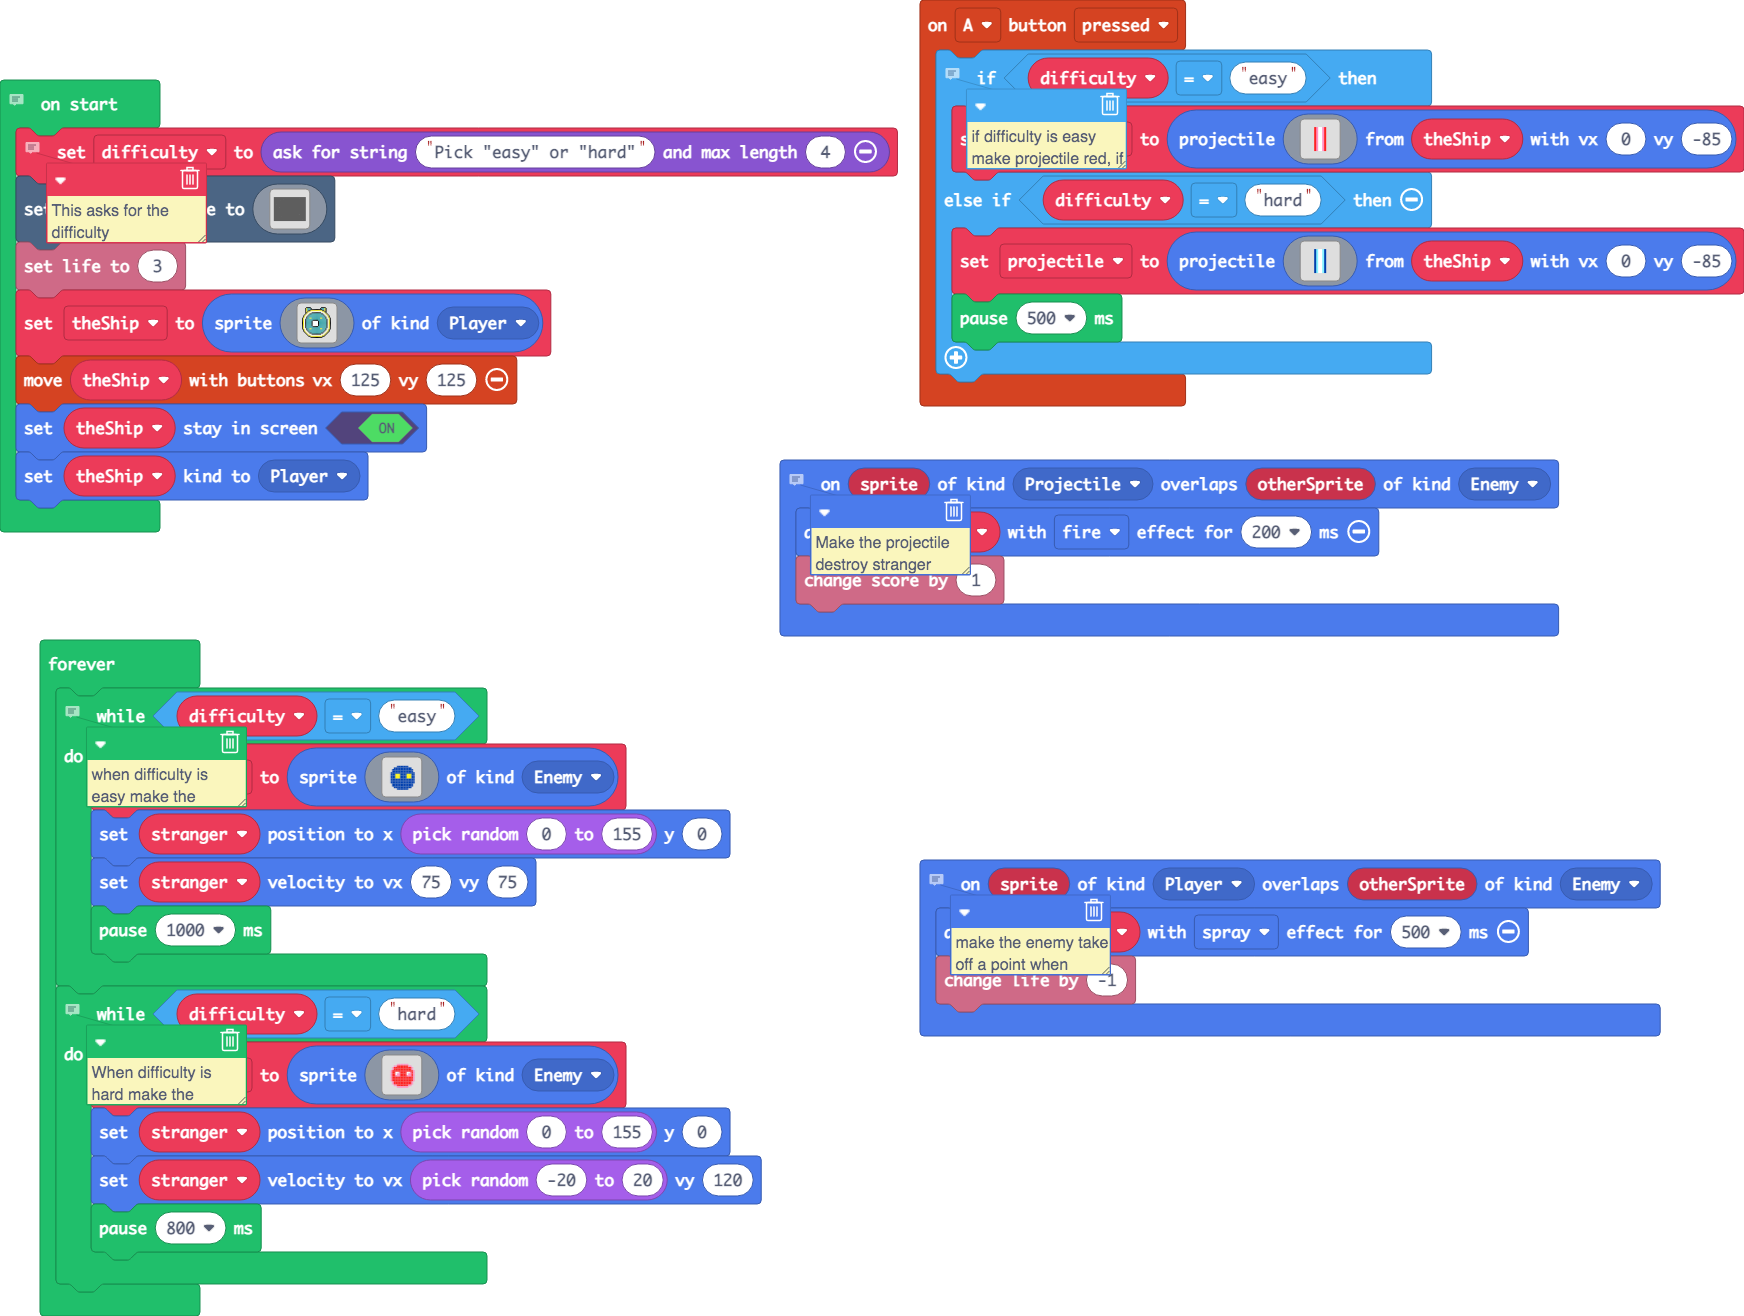
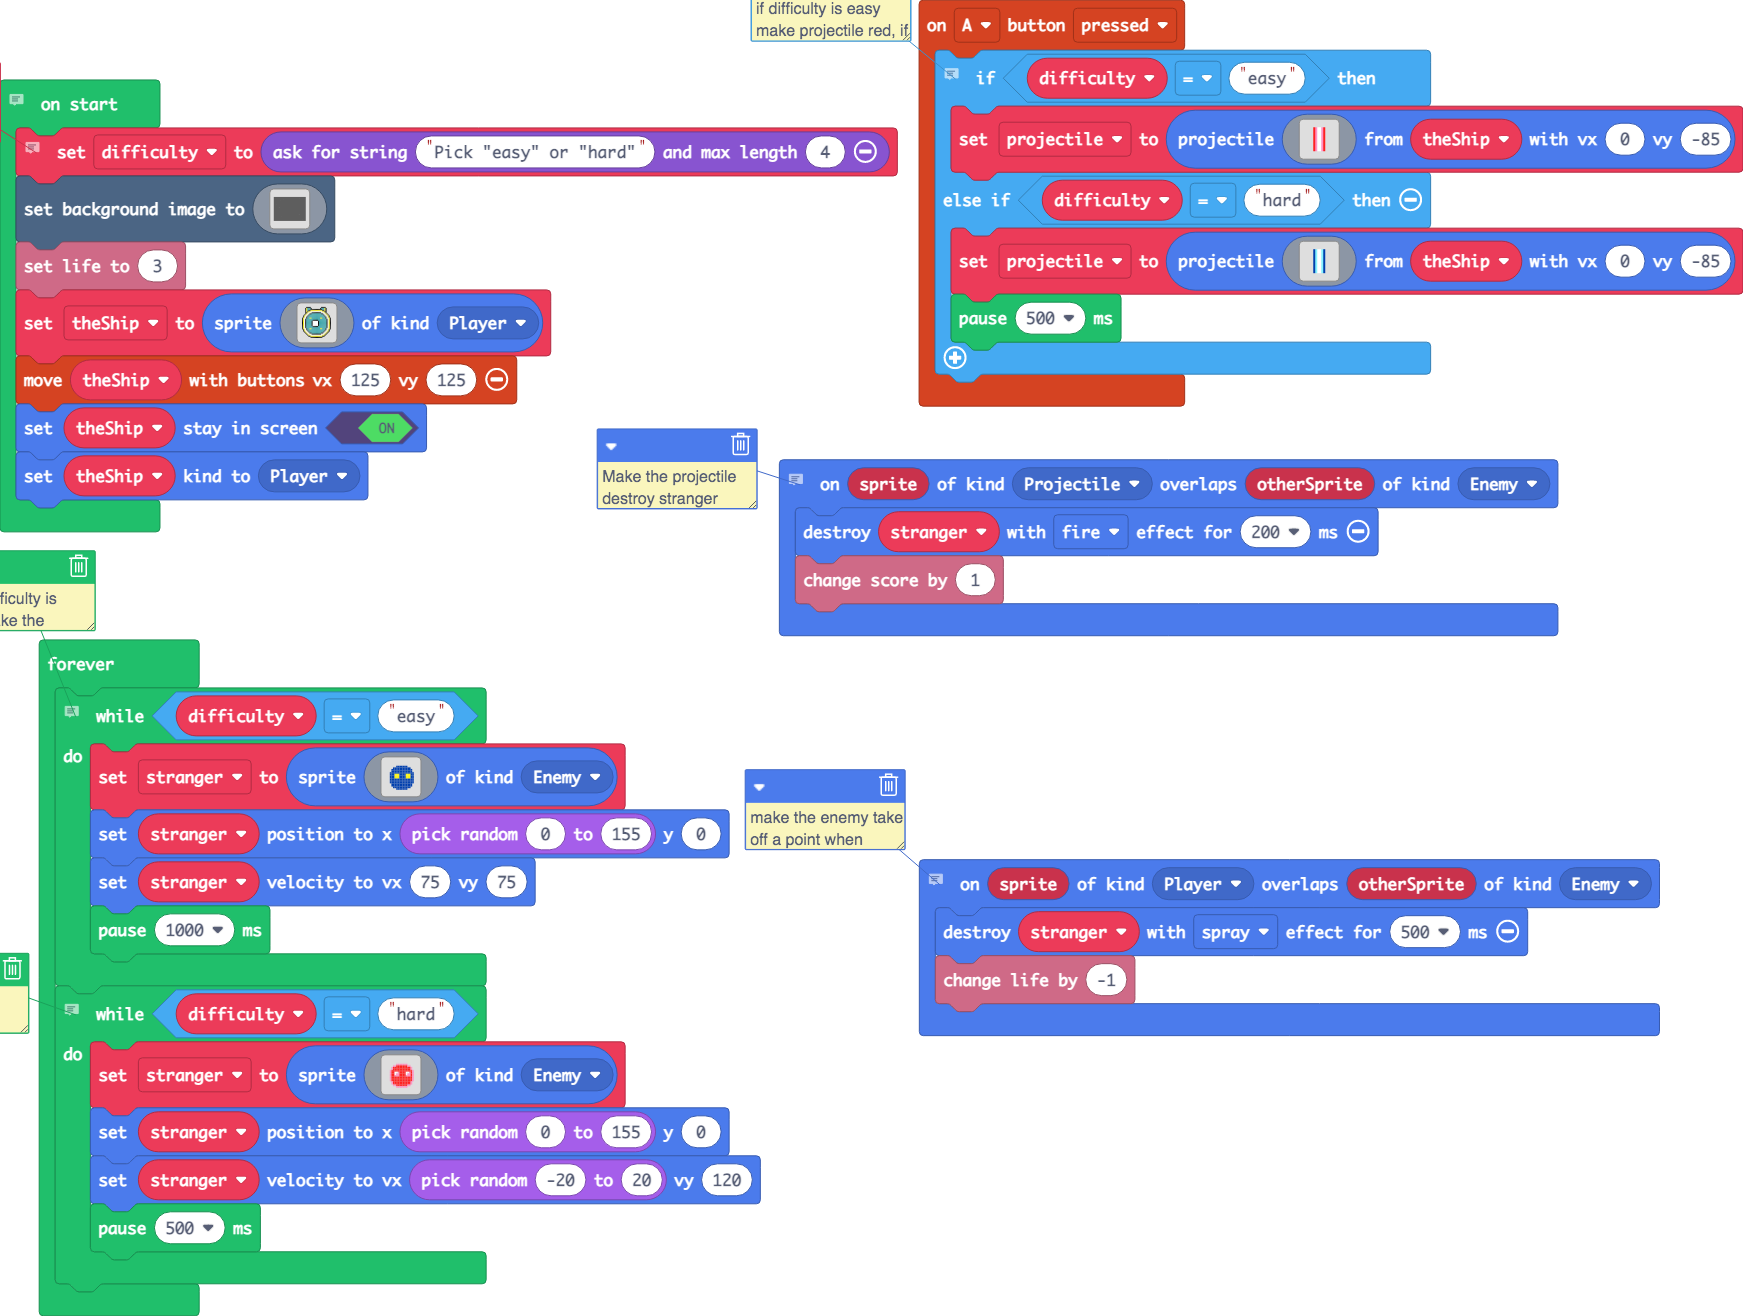
Restore '1/27/2023, 9:24:18 PM Merge pull request #5 from RoznaiCSP/second-to-final-update-i-think
Second to final update i think'

diff --git a/main.ts b/main.ts
@@ -271,6 +271,6 @@ forever(function () {
             `, SpriteKind.Enemy)
         stranger.setPosition(randint(0, 155), 0)
         stranger.setVelocity(randint(-20, 20), 120)
-        pause(800)
+        pause(500)
     }
 })
